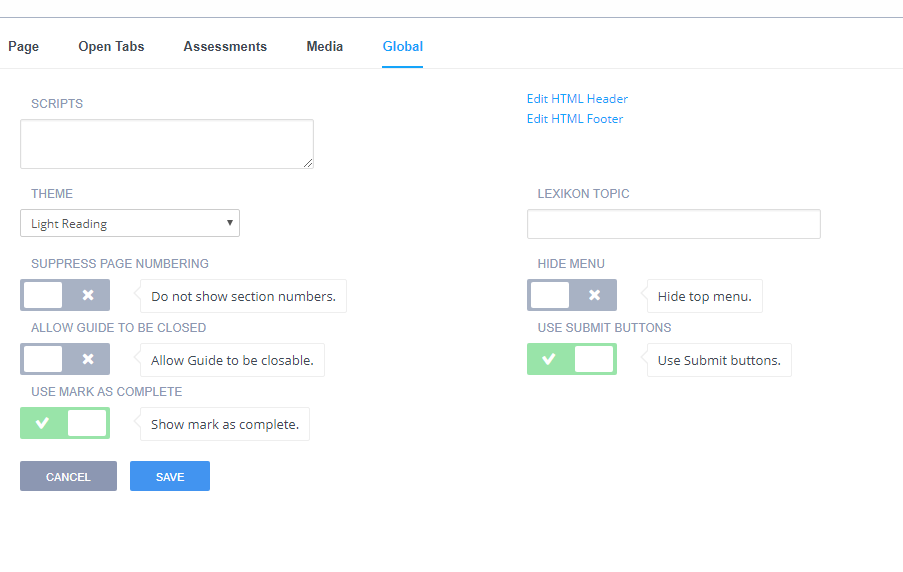
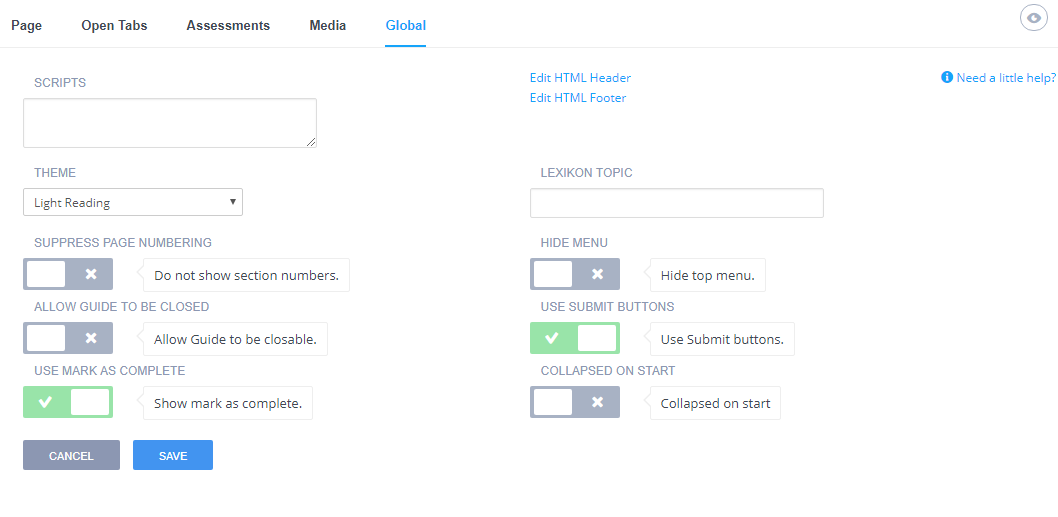
changelog #9604 #9642

diff --git a/source/docs/content/authoring/settings-actions/global.html.md b/source/docs/content/authoring/settings-actions/global.html.md
@@ -43,3 +43,11 @@ For a discussion on the use of the this feature, please [click here](/docs/conte
 
 This is enabled by default and shows students a button for [assessments](/docs/content/authoring/assessments/) for them to submit their answers.
 If you have set the [Unit Duration](/docs/classes/unitmanagement/settings-info/unit-duration/), when the end of unit duration date/time is reached, all answers to the assessments will be automatically submitted
+
+<a name="guidescollapse"></a>
+
+### Collapsed on Start
+Enable this to collapse the guides pane in the unit/project when the [layout](/docs/content/authoring/settings-actions/page/) is not `1 Panel`. Performs similar task to the [collapse](/docs/content/authoring/playmode/) button in playmode. 
+
+The guides can be reopened by clicking the hamburger icon:
+<img alt="StartGuides" src="/img/docs/openguides.png" class="simple"/>

diff --git a/source/docs/misc/changelog.html.md b/source/docs/misc/changelog.html.md
@@ -13,6 +13,8 @@ We do not report small bug fixes or issues that affect individual users, who we 
 
 **June 2018**
 
+- `[F] [15th]`: Add [collapse on start](/docs/content/authoring/settings-actions/global#guidescollapse) for guides
+- `[I] [15th]`: Improve handling of [exporting class data](/docs/classes/classmanagement/export/)
 - `[I] [13th]`: Improve support for keyboard and screen readers
 - `[I] [13th]`: Update handling of dynamic port protection
 - `[I] [ 5th]`: Add overview video for [desktop application](/docs/dashboard/desktopapp)
